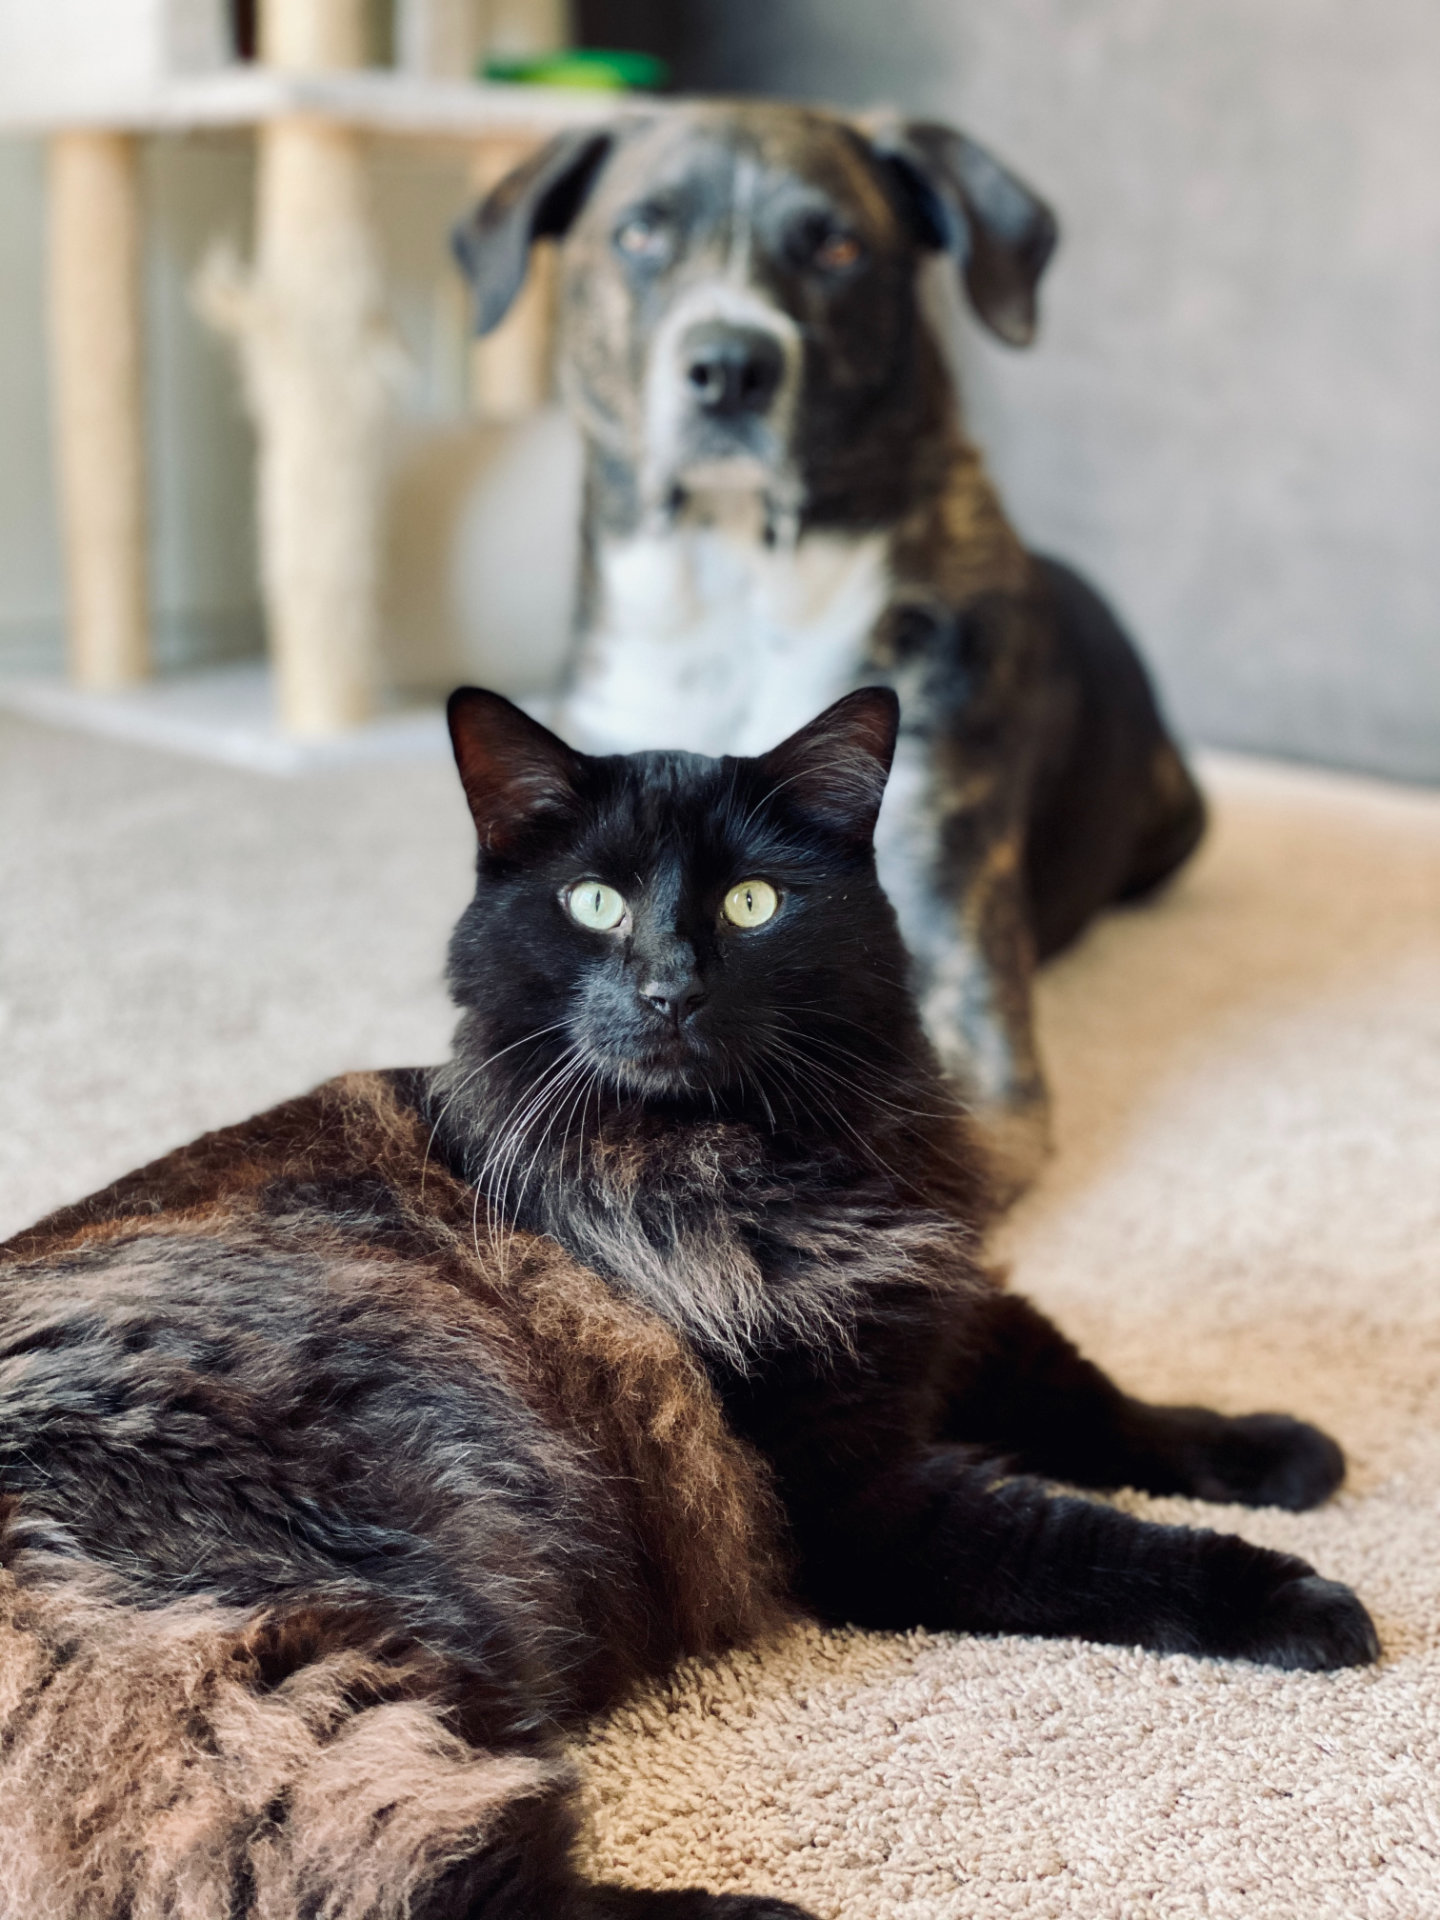
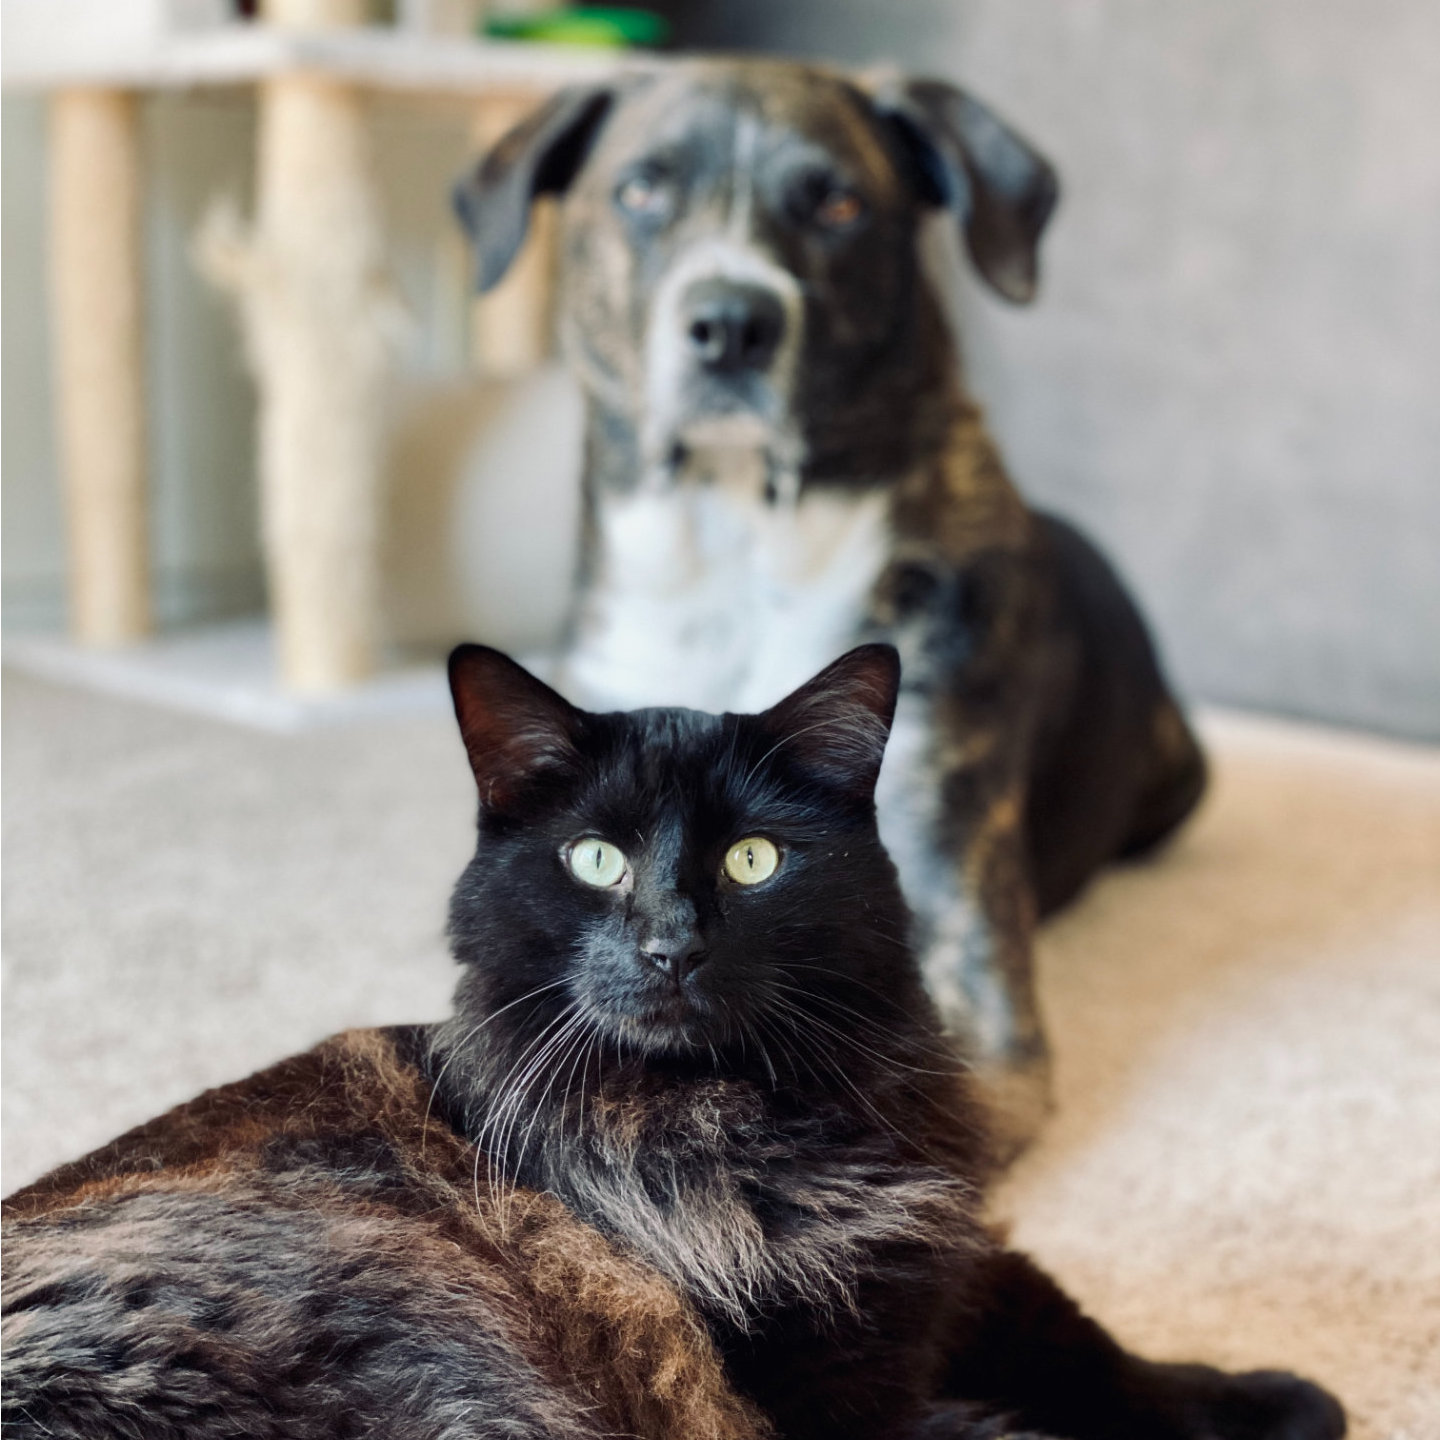
Amélioration de la grid, de son mixin et de son responsive

diff --git a/css/style.css b/css/style.css
@@ -474,7 +474,6 @@ button:hover {
 #img-1 {
   grid-column: 1/span 3;
   grid-row: 5/span 6;
-  aspect-ratio: 1;
   object-fit: cover;
   box-shadow: 0px 0px 15px rgba(0, 0, 0, 0.15);
 }
@@ -482,7 +481,6 @@ button:hover {
 #img-2 {
   grid-column: 4/span 6;
   grid-row: 1/span 7;
-  aspect-ratio: 1.5;
   object-fit: cover;
   box-shadow: 0px 0px 15px rgba(0, 0, 0, 0.15);
 }
@@ -490,7 +488,6 @@ button:hover {
 #img-3 {
   grid-column: 4/span 2;
   grid-row: 8/span 4;
-  aspect-ratio: 1;
   object-fit: cover;
   box-shadow: 0px 0px 15px rgba(0, 0, 0, 0.15);
 }
@@ -498,7 +495,6 @@ button:hover {
 #img-4 {
   grid-column: 10/span 2;
   grid-row: 4/span 4;
-  aspect-ratio: 1;
   object-fit: cover;
   box-shadow: 0px 0px 15px rgba(0, 0, 0, 0.15);
 }
@@ -506,7 +502,6 @@ button:hover {
 #img-5 {
   grid-column: 6/span 6;
   grid-row: 8/span 7;
-  aspect-ratio: 1.5;
   object-fit: cover;
   box-shadow: 0px 0px 15px rgba(0, 0, 0, 0.15);
 }
@@ -514,95 +509,82 @@ button:hover {
 #img-6 {
   grid-column: 12/span 2;
   grid-row: 6/span 6;
-  aspect-ratio: 0.6666666667;
   object-fit: cover;
   box-shadow: 0px 0px 15px rgba(0, 0, 0, 0.15);
 }
 
 @media screen and (max-width: 1024px) {
   #img-1 {
-    grid-column: 1/span 4;
+    grid-column: 1/span 3;
     grid-row: 1/span 3;
-    aspect-ratio: 1.3333333333;
     object-fit: cover;
     box-shadow: 0px 0px 15px rgba(0, 0, 0, 0.15);
   }
   #img-2 {
-    grid-column: 1/span 4;
-    grid-row: 4/span 4;
-    aspect-ratio: 1;
+    grid-column: 1/span 3;
+    grid-row: 4/span 2;
     object-fit: cover;
     box-shadow: 0px 0px 15px rgba(0, 0, 0, 0.15);
   }
   #img-3 {
-    grid-column: 5/span 3;
-    grid-row: 1/span 3;
-    aspect-ratio: 1;
+    grid-column: 4/span 2;
+    grid-row: 4/span 2;
     object-fit: cover;
     box-shadow: 0px 0px 15px rgba(0, 0, 0, 0.15);
   }
   #img-4 {
-    grid-column: 5/span 3;
-    grid-row: 4/span 4;
-    aspect-ratio: 0.75;
+    grid-column: 6/span 3;
+    grid-row: 1/span 3;
     object-fit: cover;
     box-shadow: 0px 0px 15px rgba(0, 0, 0, 0.15);
   }
   #img-5 {
-    grid-column: 8/span 3;
-    grid-row: 1/span 4;
-    aspect-ratio: 0.75;
+    grid-column: 6/span 3;
+    grid-row: 4/span 2;
     object-fit: cover;
     box-shadow: 0px 0px 15px rgba(0, 0, 0, 0.15);
   }
   #img-6 {
-    grid-column: 8/span 3;
-    grid-row: 5/span 3;
-    aspect-ratio: 1;
+    grid-column: 4/span 2;
+    grid-row: 1/span 3;
     object-fit: cover;
     box-shadow: 0px 0px 15px rgba(0, 0, 0, 0.15);
   }
 }
 @media screen and (max-width: 768px) {
   #img-1 {
-    grid-column: 1/span 1;
-    grid-row: 1/span 1;
-    aspect-ratio: 1;
+    grid-column: 1/span 5;
+    grid-row: 1/span 5;
     object-fit: cover;
     box-shadow: 0px 0px 15px rgba(0, 0, 0, 0.15);
   }
   #img-2 {
-    grid-column: 2/span 1;
-    grid-row: 1/span 1;
-    aspect-ratio: 1;
+    grid-column: 1/span 5;
+    grid-row: 9/span 3;
     object-fit: cover;
     box-shadow: 0px 0px 15px rgba(0, 0, 0, 0.15);
   }
   #img-3 {
-    grid-column: 1/span 2;
-    grid-row: 2/span 1;
-    aspect-ratio: 1.5;
+    grid-column: 3/span 3;
+    grid-row: 6/span 3;
     object-fit: cover;
     box-shadow: 0px 0px 15px rgba(0, 0, 0, 0.15);
   }
   #img-4 {
-    grid-column: 1/span 1;
-    grid-row: 3/span 1;
-    aspect-ratio: 1;
+    grid-column: 1/span 2;
+    grid-row: 12/span 2;
     object-fit: cover;
     box-shadow: 0px 0px 15px rgba(0, 0, 0, 0.15);
   }
   #img-5 {
-    grid-column: 2/span 1;
-    grid-row: 3/span 1;
-    aspect-ratio: 1;
+    grid-column: 3/span 3;
+    grid-row: 12/span 2;
     object-fit: cover;
     box-shadow: 0px 0px 15px rgba(0, 0, 0, 0.15);
   }
   #img-6 {
     grid-column: 1/span 2;
-    grid-row: 4/span 1;
-    aspect-ratio: 1.5;
+    grid-row: 6/span 3;
     object-fit: cover;
     box-shadow: 0px 0px 15px rgba(0, 0, 0, 0.15);
   }

diff --git a/scss/_gallery.scss b/scss/_gallery.scss
@@ -9,97 +9,85 @@
 #img-1 {
 	@include gridDisposition(
 		$column: 1 / span 3,
-		$row: 5 / span 6,
-		$ratio: 1 / 1
+		$row: 5 / span 6
 	);
 }
 
 #img-2 {
 	@include gridDisposition(
 		$column: 4 / span 6,
-		$row: 1 / span 7,
-		$ratio: 3 / 2
+		$row: 1 / span 7
 	);
 }
 
 #img-3 {
 	@include gridDisposition(
 		$column: 4 / span 2,
-		$row: 8 / span 4,
-		$ratio: 1 / 1
+		$row: 8 / span 4
 	);
 }
 
 #img-4 {
 	@include gridDisposition(
 		$column: 10 / span 2,
-		$row: 4 / span 4,
-		$ratio: 1 / 1
+		$row: 4 / span 4
 	);
 }
 
 #img-5 {
 	@include gridDisposition(
 		$column: 6 / span 6,
-		$row: 8 / span 7,
-		$ratio: 3 / 2
+		$row: 8 / span 7
 	);
 }
 
 #img-6 {
 	@include gridDisposition(
 		$column: 12 / span 2,
-		$row: 6 / span 6,
-		$ratio: 2 / 3
+		$row: 6 / span 6
 	);
 }
 
 @media screen and (max-width: 1024px) {
 	#img-1 {
 		@include gridDisposition(
-			$column: 1 / span 4,
-			$row: 1 / span 3,
-			$ratio: 4 / 3
+			$column: 1 / span 3,
+			$row: 1 / span 3
 		);
 	}
 
 	#img-2 {
 		@include gridDisposition(
-			$column: 1 / span 4,
-			$row: 4 / span 4,
-			$ratio: 1 / 1
+			$column: 1 / span 3,
+			$row: 4 / span 2
 		);
 	}
 
 	#img-3 {
 		@include gridDisposition(
-			$column: 5 / span 3,
-			$row: 1 / span 3,
-			$ratio: 1 / 1
+			$column: 4 / span 2,
+			$row: 4 / span 2
 		);
 	}
 
 	#img-4 {
 		@include gridDisposition(
-			$column: 5 / span 3,
-			$row: 4 / span 4,
-			$ratio: 3 / 4
+			$column: 6 / span 3,
+			$row: 1 / span 3,
 		);
 	}
 
 	#img-5 {
 		@include gridDisposition(
-			$column: 8 / span 3,
-			$row: 1 / span 4,
-			$ratio: 3 / 4
+			$column: 6 / span 3,
+			$row: 4 / span 2,
 		);
 	}
 
 	#img-6 {
 		@include gridDisposition(
-			$column: 8 / span 3,
-			$row: 5 / span 3,
-			$ratio: 1 / 1
+			$column: 4 / span 2,
+			$row: 1 / span 3,
 		);
 	}
 }
@@ -107,49 +95,43 @@
 @media screen and (max-width: 768px) {
 	#img-1 {
 		@include gridDisposition(
-			$column: 1 / span 1,
-			$row: 1 / span 1,
-			$ratio: 1 / 1
+			$column: 1 / span 5,
+			$row: 1 / span 5
 		);
 	}
 
 	#img-2 {
 		@include gridDisposition(
-			$column: 2 / span 1,
-			$row: 1 / span 1,
-			$ratio: 1 / 1
+			$column: 1 / span 5,
+			$row: 9 / span 3
 		);
 	}
 
 	#img-3 {
 		@include gridDisposition(
-			$column: 1 / span 2,
-			$row: 2 / span 1,
-			$ratio: 3 / 2
+			$column: 3 / span 3,
+			$row: 6 / span 3
 		);
 	}
 
 	#img-4 {
 		@include gridDisposition(
-			$column: 1 / span 1,
-			$row: 3 / span 1,
-			$ratio: 1 / 1
+			$column: 1 / span 2,
+			$row: 12 / span 2
 		);
 	}
 
 	#img-5 {
 		@include gridDisposition(
-			$column: 2 / span 1,
-			$row: 3 / span 1,
-			$ratio: 1 / 1
+			$column: 3 / span 3,
+			$row: 12 / span 2
 		);
 	}
 
 	#img-6 {
 		@include gridDisposition(
 			$column: 1 / span 2,
-			$row: 4 / span 1,
-			$ratio: 3 / 2
+			$row: 6 / span 3
 		);
 	}
 }

diff --git a/scss/_mixins.scss b/scss/_mixins.scss
@@ -7,10 +7,9 @@
     gap: $gap;
 }
 
-@mixin gridDisposition($column, $row, $ratio, $object-fit:cover, $box-shadow:$shadow-img){
+@mixin gridDisposition($column, $row, $object-fit:cover, $box-shadow:$shadow-img){
     grid-column:$column;
     grid-row: $row;
-    aspect-ratio: $ratio;
     object-fit: $object-fit;
     box-shadow: $box-shadow;
 }
